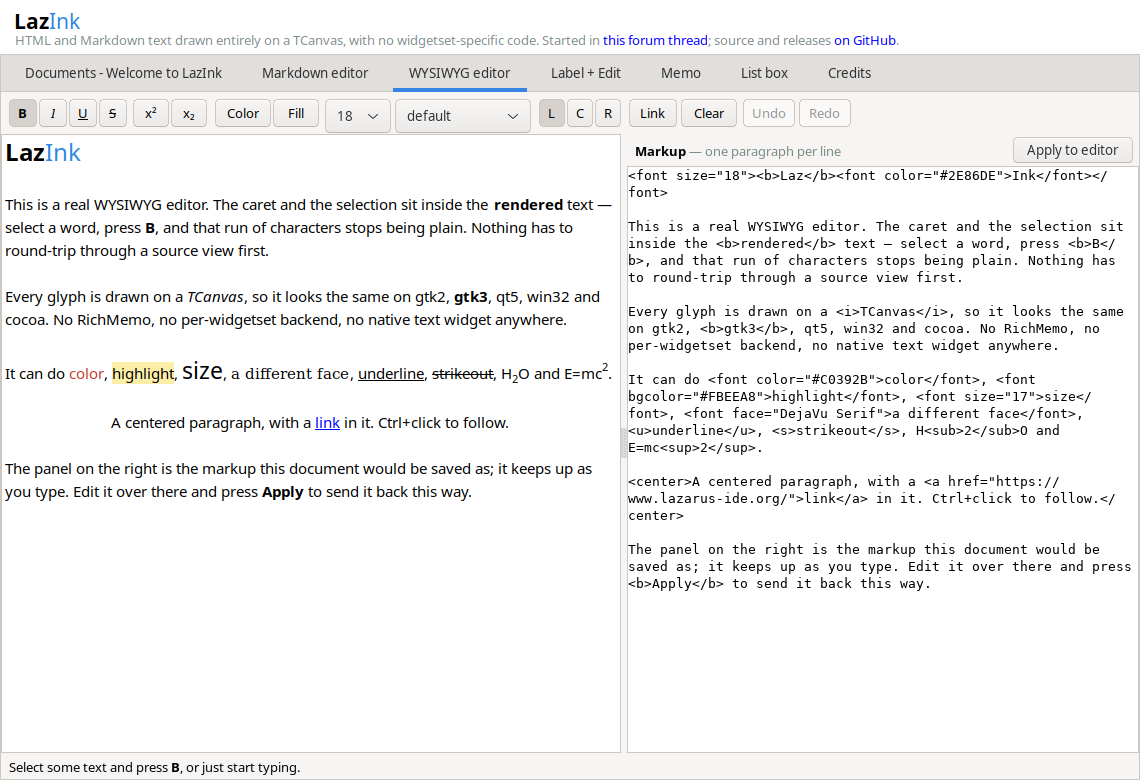
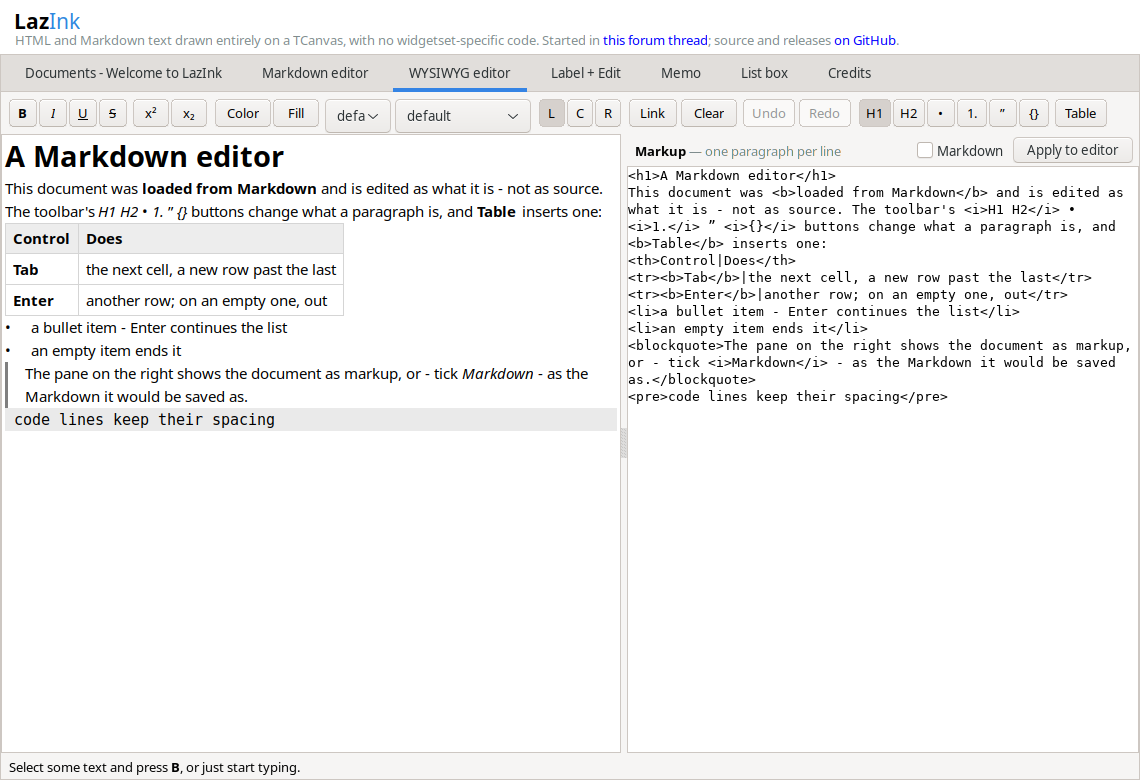
The demo shows what the editors became
The Markdown editor tab's source pane is a TInkCodeMemo, colored by the
demo itself through OnGetCharAttrs: the demo classifies each line once per
change - headings blue, markers, fences and table pipes orange, code spans
teal, quotes gray italic - and the event just reads the map, walking
codepoints so an em-dash cannot shift a marker's color onto its neighbor.
LazInk's own machinery, Markdown the only language it colors, no SynEdit
anywhere - which closes the roadmap's oldest demo item.  The pane carries
a TextHint, and Tab indents, as a source editor should.

The WYSIWYG tab opens on a document loaded from Markdown - a heading, a
real table, lists, a quote, code - with toolbar buttons for what a
paragraph is (H1, H2, bullet, number, quote, code, each reflecting the
caret) and a Table button.  Its source pane now speaks two languages: the
markup as before, or - tick Markdown - AsMarkdown, and Apply reads either
back into the editor.

The Documents tab grew a scheme box wired to ColorScheme, so a page's
@media (prefers-color-scheme) rules can be watched switching live.  The
README's demo pictures are regenerated by the demo itself and its words
brought current; the roadmap's C closes down to two small lines.

diff --git a/README.md b/README.md
@@ -382,17 +382,26 @@ designer and push it around; nothing is conjured up at run time.
 **Documents** opens on `demo/tour.md`, a Markdown page about LazInk shown by a
 `TInkPage`: select text, right-click to copy, Ctrl+F to find, follow the link
 to this README and come back with the mouse's back button. The list above the
-page switches its look through `StyleSheet`.
+page switches its look through `StyleSheet`, and the scheme box beside it
+answers the page's `@media (prefers-color-scheme)` queries through
+`ColorScheme`.
 
 ![The Documents tab](images/demo-documents.png)
 
 **Markdown editor** is the source and its live preview side by side, and opens
 this README when the demo starts. It opens and saves files; the other tabs
-only show what the controls can do.
+only show what the controls can do.  The source pane is a `TInkCodeMemo`
+colored by the demo itself through `OnGetCharAttrs` - headings, markers,
+code spans, quotes and table pipes each in their own color, LazInk's own
+machinery and no SynEdit anywhere.
 
 ![The Markdown editor tab](images/demo-markdown.png)
 
-**WYSIWYG editor** is `TInkRichEdit` with the markup it would be saved as:
+**WYSIWYG editor** opens on a document **loaded from Markdown** and edited
+as the thing itself - a heading, a table (Tab hops cells, Enter adds rows),
+lists, a quote and code, with toolbar buttons for what a paragraph is.  The
+right pane shows the document as markup, or - tick *Markdown* - as the
+Markdown it would be saved as, and **Apply** reads either back:
 
 ![The WYSIWYG editor tab](images/demo-editor.png)
 
